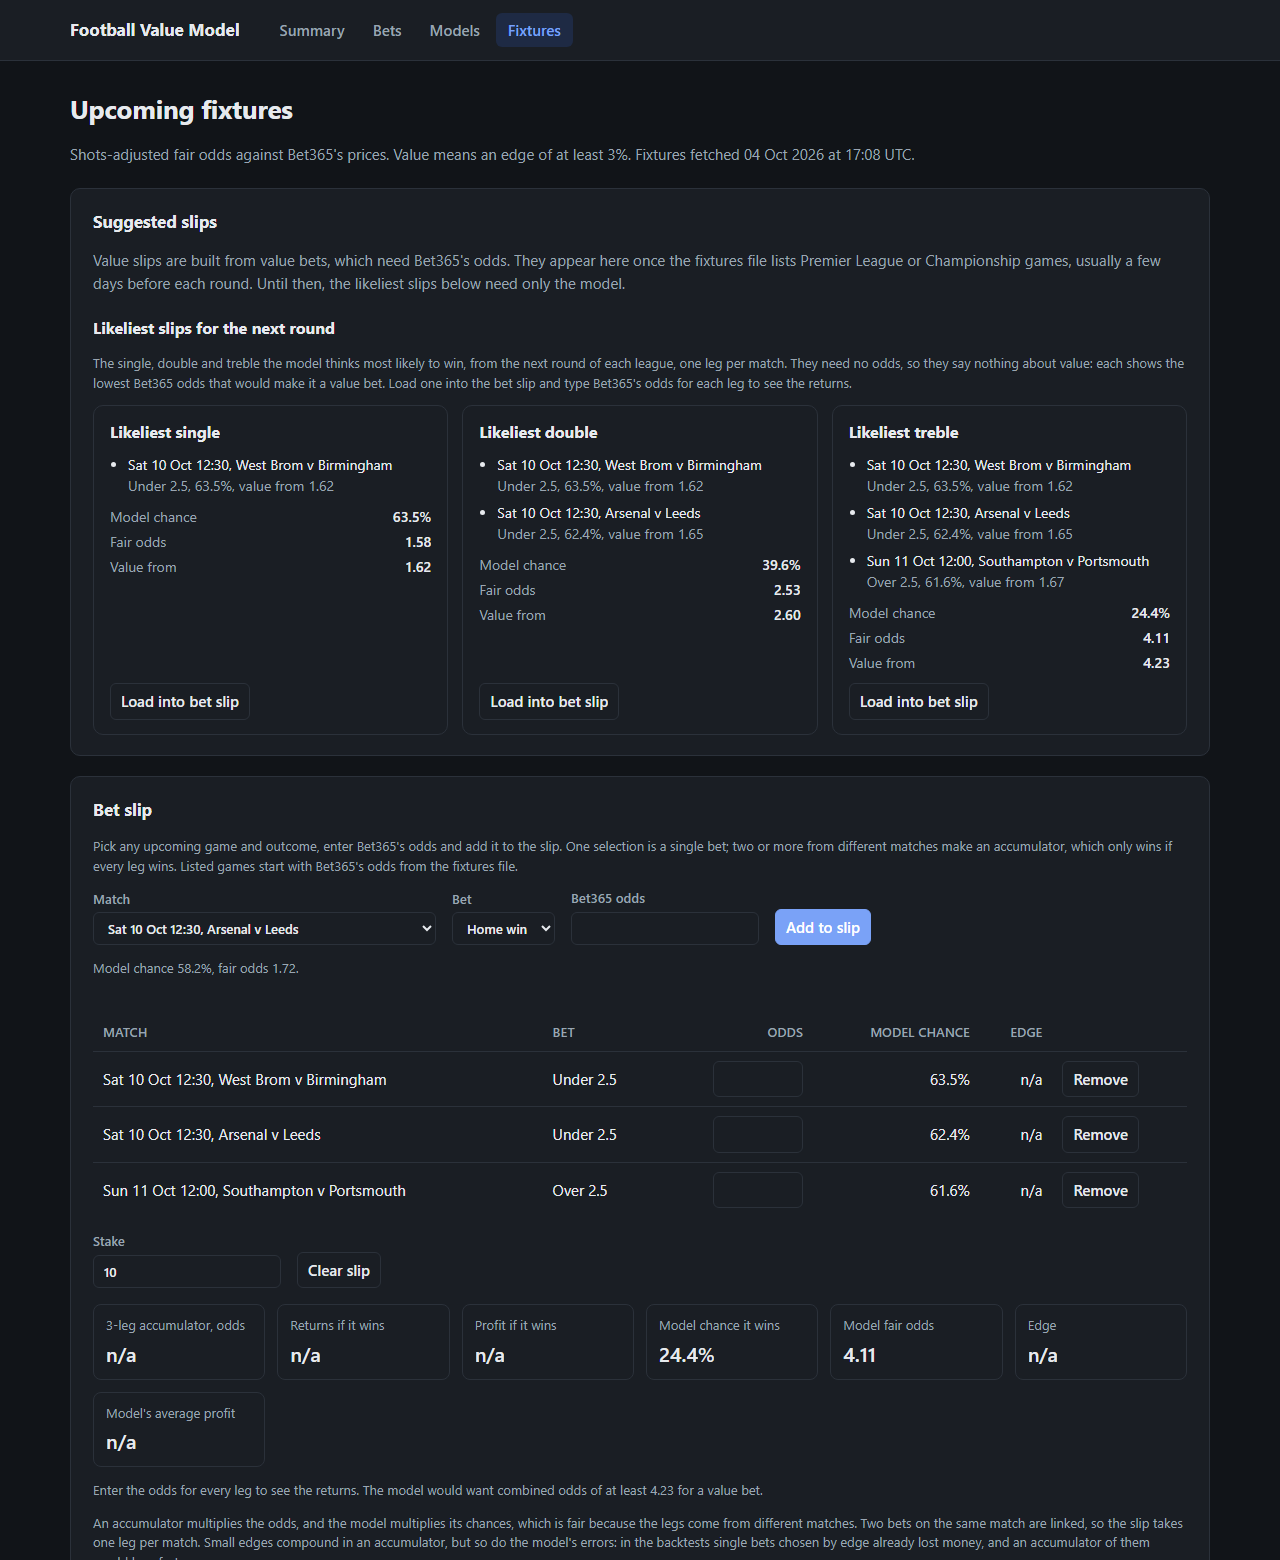
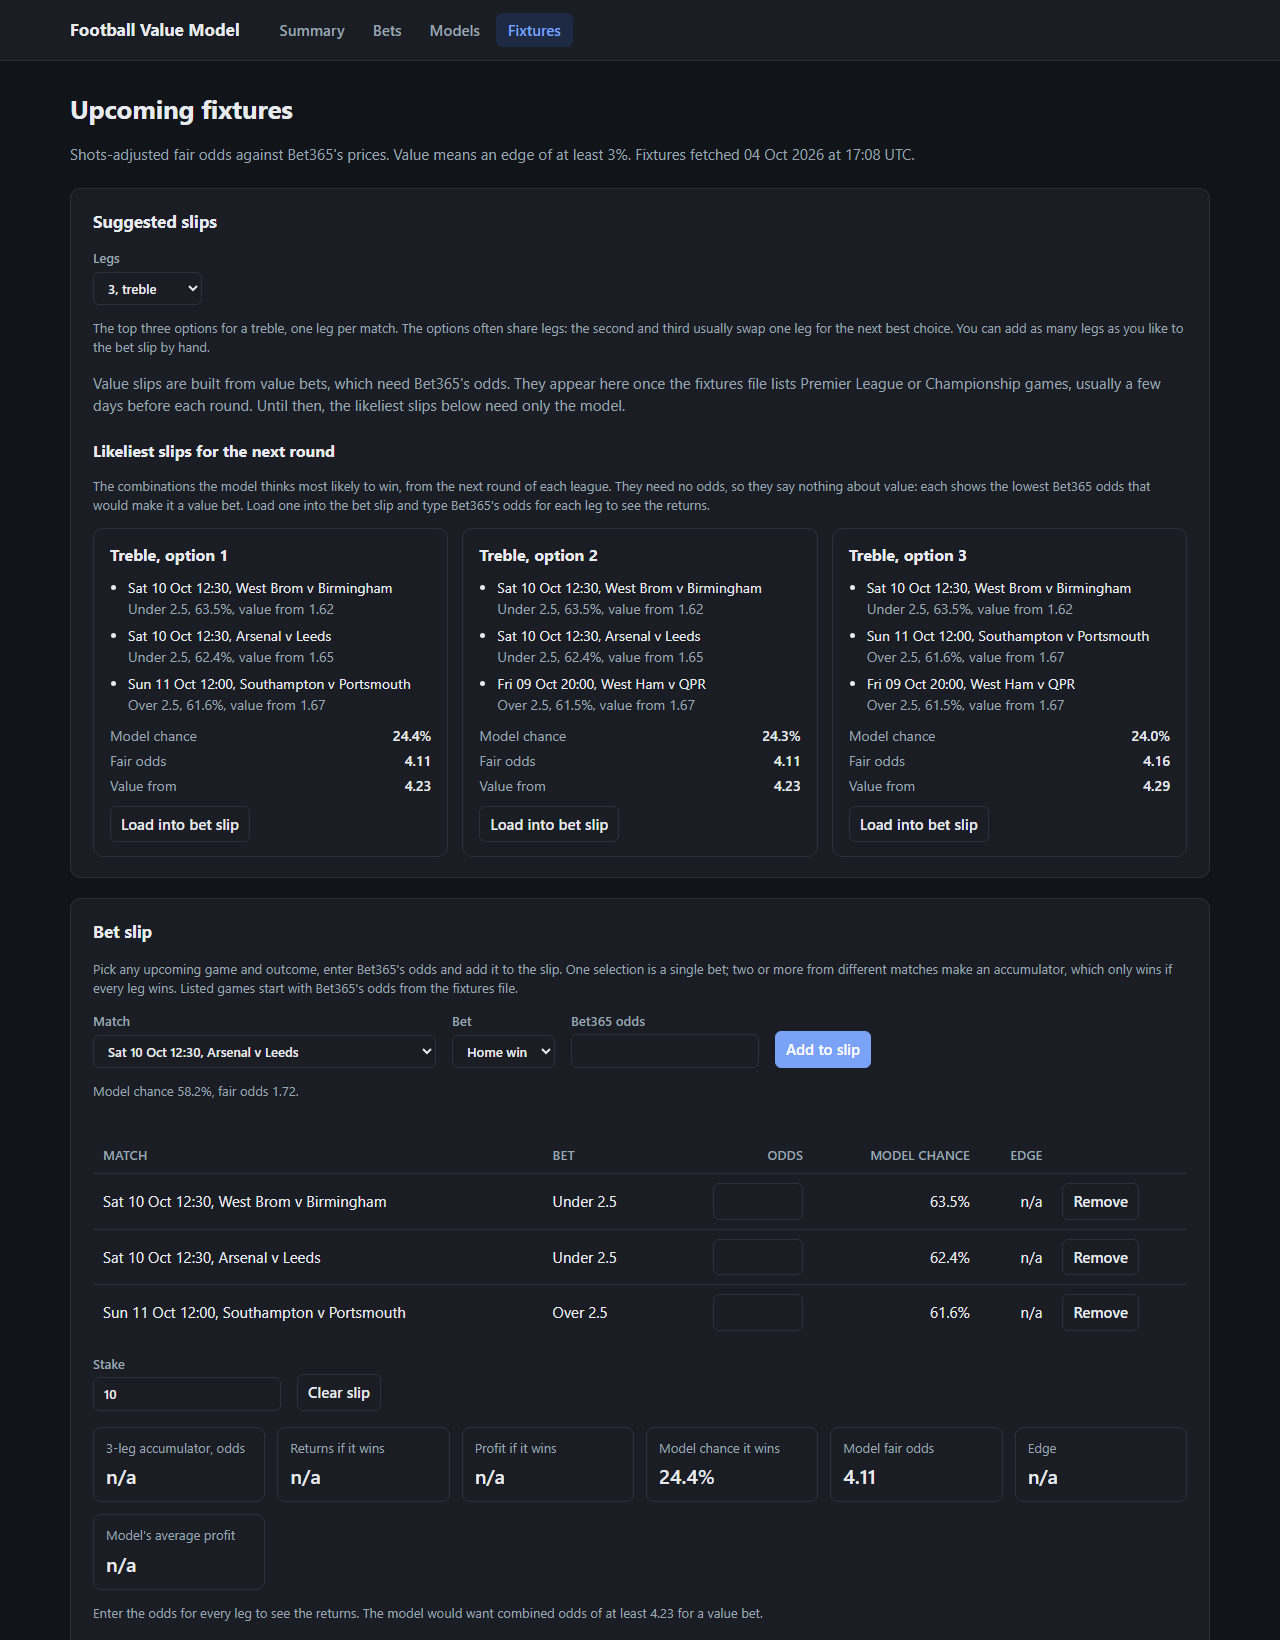
Update the fixtures screenshot for slip options

diff --git a/README.md b/README.md
@@ -135,9 +135,9 @@ flask --app valuemodel.web run
 
 Then open http://127.0.0.1:5000. The summary page leads with closing line value and shows a bankroll chart for each strategy. The bets page has the full bet log with filters for strategy, league, season, market and result. The models page compares the forecasters and shows a calibration chart. The fixtures page starts with the same ranked paper bets, each with a box to type a stake and see what it would return, followed by the three best suggested slips for a chosen number of legs, from one to six, each of which loads into the bet slip with one click. It then prices upcoming matches next to Bet365's odds, highlights value, and lists each match's most likely result in order of the model's confidence. A bet slip takes any upcoming game, outcome and odds, or a paper bet with one click. One selection is a single; two or more make an accumulator, whose odds and model chances multiply. The slip shows the combined odds, the return and profit for a stake, the model's chance that every leg wins, the edge, and whether it counts as value. It takes one leg per match, because outcomes of the same match are linked and their chances cannot simply be multiplied. Below that, a season schedule section gives the model's chances, fair odds, prices to beat and expected goals for the next few rounds of the Premier League and Championship, or every remaining round. It has no odds, so it is the model's view of what might happen rather than a list of bets, and games further ahead use today's team ratings. The bets page can also be ordered by the model's chance of each bet winning.
 
-![Fixtures page with the likeliest slips for the next round and the likeliest treble loaded into the bet slip](docs/screenshot-fixtures.png)
+![Fixtures page with three treble options for the next round and the first loaded into the bet slip](docs/screenshot-fixtures.png)
 
-The screenshot shows the likeliest slips for the round after 4 October 2026, before the fixtures file listed any odds, with the treble loaded into the bet slip and waiting for Bet365's prices.
+The screenshot shows the three likeliest trebles for the round after 4 October 2026, before the fixtures file listed any odds, with the first loaded into the bet slip and waiting for Bet365's prices.
 
 The dashboard only reads the local database and cached files. `valuemodel fixtures` is what fetches the latest fixtures file, refreshes this season's results and downloads the season schedules, for the Premier League and the Championship unless `--leagues` says otherwise. The fixtures file covers many leagues but only the next few days, once bookmakers have priced the games, and the model can only price leagues it has results for. The schedules cover the whole season. Charts use Chart.js from a CDN, so they need an internet connection.
 
